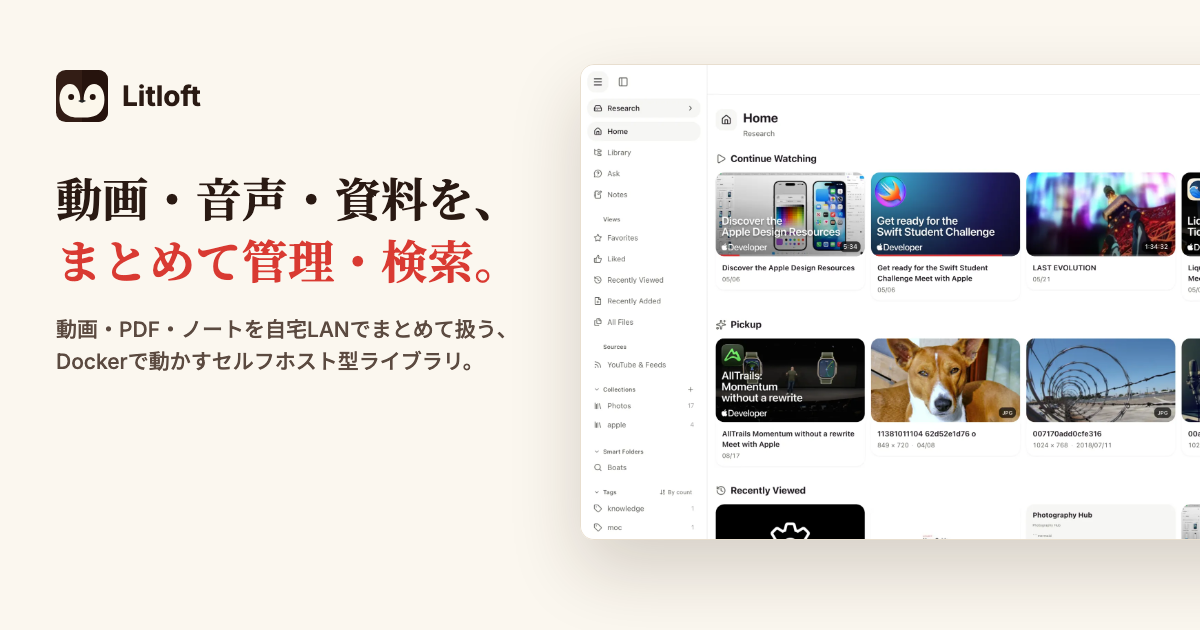
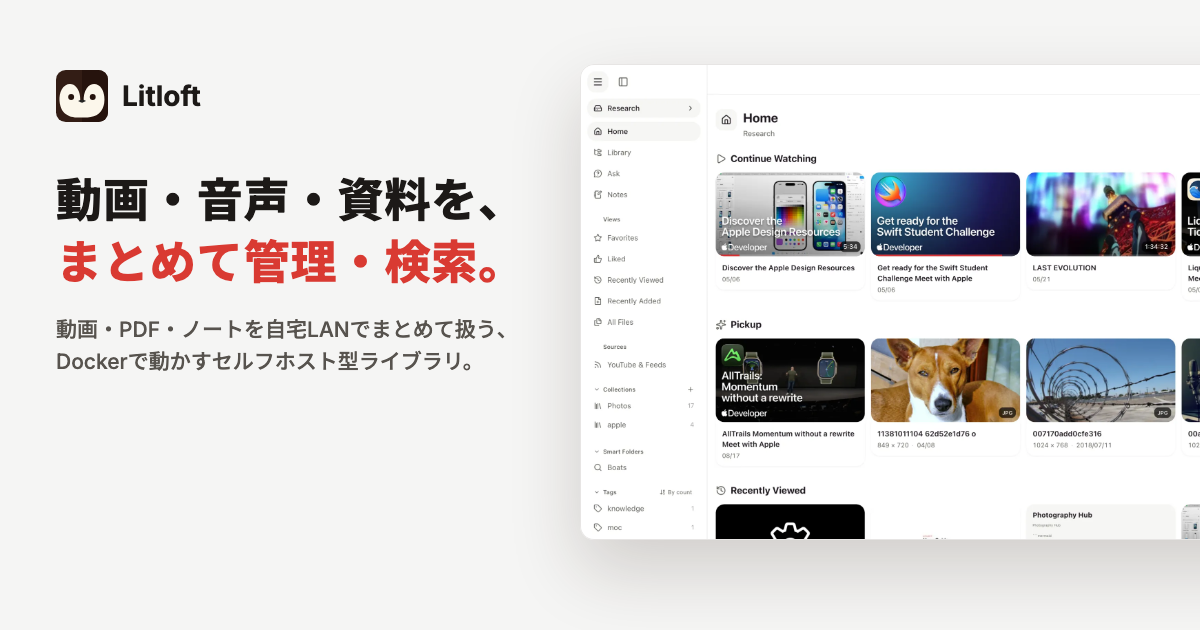
style: sans-serif headings, neutral background, plain LLM box
Set headings in Inter and Noto Sans JP instead of a serif, replace the
cream palette with white and stone greys, drop the red left rule on the
LLM box, and redraw both OG cards to match.

Changed region(s): [[0.0308, 0.2714, 0.4317, 0.4524]]

diff --git a/lp.css b/lp.css
@@ -4,17 +4,18 @@
   --red: #D93A32;
   --red-hover: #B92E27;
   --red-soft: #FCEBE8;
-  --ink: #2A1A13;
-  --ink-2: #5B4A40;
-  --ink-3: #8E7E73;
-  --cream: #FBF7EF;
-  --cream-2: #F4EDE0;
+  --ink: #1C1917;
+  --ink-2: #57534E;
+  --ink-3: #8A847F;
+  --bg: #FFFFFF;
+  --bg-2: #F5F5F4;
+  --bg-alt: #FAFAF9;
   --paper: #FFFFFF;
-  --line: #E8DECF;
-  --line-2: #D8CAB5;
+  --line: #E7E5E4;
+  --line-2: #D6D3D1;
   --night: #26140D;
   --night-2: #331D15;
-  --shadow-lg: 0 2px 4px rgba(42,26,19,.05), 0 24px 60px rgba(42,26,19,.14);
+  --shadow-lg: 0 2px 4px rgba(28,25,23,.05), 0 24px 60px rgba(28,25,23,.12);
   --r: 14px;
   --r-sm: 8px;
   --ease: cubic-bezier(0.4, 0, 0.2, 1);
@@ -25,14 +26,14 @@ html { scroll-behavior: smooth; }
 body {
   font-family: 'Inter', system-ui, -apple-system, sans-serif;
   color: var(--ink);
-  background: var(--cream);
+  background: var(--bg);
   line-height: 1.6;
   -webkit-font-smoothing: antialiased;
   overflow-x: hidden;
 }
 
 h1, h2, h3 { line-height: 1.15; letter-spacing: -0.02em; }
-h1, h2 { font-family: 'Fraunces', Georgia, serif; font-weight: 700; }
+h1, h2 { font-weight: 700; letter-spacing: -0.03em; }
 h3 { font-weight: 600; }
 a { color: inherit; }
 code { font-family: 'JetBrains Mono', ui-monospace, monospace; font-size: .9em; }
@@ -43,7 +44,7 @@ img { display: block; max-width: 100%; height: auto; }
 /* ─── NAV ─── */
 .topnav {
   position: sticky; top: 0; z-index: 100;
-  background: rgba(251,247,239,.88);
+  background: rgba(255,255,255,.88);
   backdrop-filter: blur(14px); -webkit-backdrop-filter: blur(14px);
   border-bottom: 1px solid var(--line);
 }
@@ -57,7 +58,7 @@ img { display: block; max-width: 100%; height: auto; }
   padding: 6px 12px; border-radius: var(--r-sm);
   transition: color 160ms var(--ease), background 160ms var(--ease);
 }
-.nav-link:hover { color: var(--ink); background: var(--cream-2); }
+.nav-link:hover { color: var(--ink); background: var(--bg-2); }
 
 /* ─── BUTTONS ─── */
 .btn {
@@ -69,12 +70,12 @@ img { display: block; max-width: 100%; height: auto; }
 .btn-primary { background: var(--red); color: #fff; border-color: var(--red); }
 .btn-primary:hover { background: var(--red-hover); border-color: var(--red-hover); }
 .btn-outline { background: var(--paper); color: var(--ink); border-color: var(--line-2); }
-.btn-outline:hover { background: var(--cream-2); }
+.btn-outline:hover { background: var(--bg-2); }
 .btn-lg { padding: 13px 24px; font-size: 15px; border-radius: 10px; }
-.btn-light { background: var(--cream); color: var(--ink); border-color: var(--cream); }
+.btn-light { background: var(--bg); color: var(--ink); border-color: var(--bg); }
 .btn-light:hover { background: #fff; }
-.btn-ghost { background: transparent; color: var(--cream); border-color: rgba(251,247,239,.3); }
-.btn-ghost:hover { background: rgba(251,247,239,.08); }
+.btn-ghost { background: transparent; color: var(--bg); border-color: rgba(255,255,255,.3); }
+.btn-ghost:hover { background: rgba(255,255,255,.08); }
 
 .eyebrow {
   display: inline-flex; align-items: center; gap: 8px;
@@ -91,12 +92,12 @@ img { display: block; max-width: 100%; height: auto; }
   padding: 5px 6px 5px 14px; border-radius: 100px;
   background: var(--paper); border: 1px solid var(--line);
   font-size: 13px; color: var(--ink-2); text-decoration: none;
-  box-shadow: 0 1px 2px rgba(42,26,19,.05);
+  box-shadow: 0 1px 2px rgba(28,25,23,.05);
 }
 .release-pill b { color: var(--ink); font-weight: 600; }
 .release-pill .go { background: var(--red-soft); color: var(--red); font-weight: 600; padding: 2px 10px; border-radius: 100px; font-size: 12px; white-space: nowrap; }
 .hero h1 { font-size: clamp(38px, 6vw, 68px); letter-spacing: -0.03em; line-height: 1.04; }
-.hero h1 em { font-style: italic; color: var(--red); }
+.hero h1 em { font-style: normal; color: var(--red); }
 .hero-sub { font-size: clamp(16px, 2vw, 19px); color: var(--ink-2); max-width: 620px; line-height: 1.65; }
 .hero-ctas { display: flex; gap: 12px; flex-wrap: wrap; justify-content: center; margin-top: 4px; }
 .facts { display: flex; flex-wrap: wrap; justify-content: center; gap: 8px 22px; font-size: 13px; color: var(--ink-3); }
@@ -115,7 +116,7 @@ img { display: block; max-width: 100%; height: auto; }
 }
 .frame-bar {
   display: flex; align-items: center; gap: 7px;
-  padding: 9px 14px; background: var(--cream-2); border-bottom: 1px solid var(--line);
+  padding: 9px 14px; background: var(--bg-2); border-bottom: 1px solid var(--line);
 }
 .frame-bar i { width: 10px; height: 10px; border-radius: 50%; background: var(--line-2); }
 .frame-bar .url {
@@ -131,11 +132,11 @@ section { scroll-margin-top: 70px; }
 .section-head { max-width: 680px; margin: 0 auto 56px; text-align: center; }
 .section-head h2 { font-size: clamp(28px, 3.8vw, 44px); margin: 14px 0; }
 .section-head p { font-size: 17px; color: var(--ink-2); }
-.paper { background: var(--paper); border-top: 1px solid var(--line); border-bottom: 1px solid var(--line); }
+.paper { background: var(--bg-alt); border-top: 1px solid var(--line); border-bottom: 1px solid var(--line); }
 
 /* ─── WHAT'S NEW ─── */
 .new-grid { display: grid; grid-template-columns: repeat(3, 1fr); gap: 16px; }
-.new-card { background: var(--cream); border: 1px solid var(--line); border-radius: var(--r); padding: 22px 22px 24px; }
+.new-card { background: var(--paper); border: 1px solid var(--line); border-radius: var(--r); padding: 22px 22px 24px; }
 .new-card .tag {
   display: inline-block; font-size: 11px; font-weight: 600; color: var(--ink-3);
   border: 1px solid var(--line-2); border-radius: 100px; padding: 1px 9px; margin-bottom: 14px;
@@ -167,7 +168,7 @@ kbd {
 }
 .note {
   margin-top: 20px; padding: 12px 14px; border-radius: var(--r-sm);
-  background: var(--cream-2); border: 1px solid var(--line);
+  background: var(--bg-2); border: 1px solid var(--line);
   font-size: 13.5px !important; color: var(--ink-2); line-height: 1.6 !important; margin-bottom: 0 !important;
 }
 
@@ -177,7 +178,7 @@ kbd {
   border: 1px solid var(--line-2); border-radius: 100px; padding: 5px 14px; cursor: pointer;
   transition: all 160ms var(--ease);
 }
-.shot-tab[aria-selected="true"], .os-tab[aria-selected="true"] { background: var(--ink); border-color: var(--ink); color: var(--cream); }
+.shot-tab[aria-selected="true"], .os-tab[aria-selected="true"] { background: var(--ink); border-color: var(--ink); color: var(--bg); }
 .shot-tab:focus-visible, .os-tab:focus-visible, .btn:focus-visible, .nav-link:focus-visible { outline: 2px solid var(--red); outline-offset: 2px; }
 
 /* ─── PHONE ─── */
@@ -187,7 +188,7 @@ kbd {
 .phone:nth-child(2) { margin-top: 48px; }
 
 /* ─── UNDER THE HOOD ─── */
-.hood { background: var(--night); color: var(--cream); }
+.hood { background: var(--night); color: var(--bg); }
 .hood .section-head p { color: #C9B8A8; }
 .hood .eyebrow { color: #F0907F; }
 .hood-grid { display: grid; grid-template-columns: repeat(3, 1fr); gap: 16px; }
@@ -220,7 +221,7 @@ kbd {
 .step-rail { display: flex; flex-direction: column; align-items: center; }
 .step-num {
   counter-increment: step; width: 40px; height: 40px; border-radius: 12px; flex-shrink: 0;
-  background: var(--ink); color: var(--cream); display: grid; place-items: center;
+  background: var(--ink); color: var(--bg); display: grid; place-items: center;
   font: 700 17px 'Inter', sans-serif;
 }
 .step-num::before { content: counter(step); }
@@ -229,7 +230,7 @@ kbd {
 .step-body { padding: 6px 0 40px; }
 .step-body h3 { font-size: 19px; margin-bottom: 8px; }
 .step-body > p { font-size: 15px; color: var(--ink-2); margin-bottom: 14px; }
-.ic { background: var(--cream-2); border: 1px solid var(--line); border-radius: 4px; padding: 1px 5px; color: var(--ink); font-size: 12.5px; }
+.ic { background: var(--bg-2); border: 1px solid var(--line); border-radius: 4px; padding: 1px 5px; color: var(--ink); font-size: 12.5px; }
 .code {
   background: var(--night); color: #F3E9DE; border-radius: 10px; padding: 14px 16px;
   font: 13px/1.75 'JetBrains Mono', monospace; overflow-x: auto; white-space: pre;
@@ -238,15 +239,14 @@ kbd {
 .code .p { color: #F0907F; user-select: none; }
 .os-tabs { display: flex; gap: 6px; margin-bottom: 8px; }
 .os-tab { font: 500 12px 'JetBrains Mono', monospace; padding: 3px 11px; }
-.asks { list-style: none; display: flex; flex-direction: column; gap: 8px; margin: 14px 0; padding: 14px 16px; background: var(--cream); border: 1px solid var(--line); border-radius: 10px; }
+.asks { list-style: none; display: flex; flex-direction: column; gap: 8px; margin: 14px 0; padding: 14px 16px; background: var(--bg); border: 1px solid var(--line); border-radius: 10px; }
 .asks li { font-size: 14px; color: var(--ink-2); display: grid; grid-template-columns: 22px 1fr; }
 .asks li b { color: var(--ink); font-weight: 600; }
 .asks li > span:first-child { color: var(--red); font-weight: 700; }
 .step-body > p.foot { font-size: 13.5px; color: var(--ink-3); margin: 0; }
 
 .llm-box {
-  max-width: 820px; margin: 8px auto 0; background: var(--cream); border: 1px solid var(--line);
-  border-left: 3px solid var(--red); border-radius: var(--r); padding: 22px 24px;
+  max-width: 820px; margin: 8px auto 0; background: var(--paper); border: 1px solid var(--line); border-radius: var(--r); padding: 22px 24px;
 }
 .llm-box h3 { font-size: 16px; margin-bottom: 10px; }
 .llm-box p { font-size: 14px; color: var(--ink-2); margin-bottom: 10px; }
@@ -260,8 +260,8 @@ kbd {
 .not-item b { color: var(--ink); }
 
 /* ─── CTA / FOOTER ─── */
-.cta { background: var(--night); color: var(--cream); text-align: center; padding: 96px 0; }
-.cta img { width: 64px; height: 64px; margin: 0 auto 24px; border-radius: 12px; box-shadow: 0 0 0 1px rgba(251,247,239,.22); }
+.cta { background: var(--night); color: var(--bg); text-align: center; padding: 96px 0; }
+.cta img { width: 64px; height: 64px; margin: 0 auto 24px; border-radius: 12px; box-shadow: 0 0 0 1px rgba(255,255,255,.22); }
 .cta h2 { font-size: clamp(30px, 4vw, 48px); margin-bottom: 14px; }
 .cta p { font-size: 17px; color: #C9B8A8; max-width: 520px; margin: 0 auto 34px; }
 .cta-btns { display: flex; gap: 12px; justify-content: center; flex-wrap: wrap; }

diff --git a/ja/index.html b/ja/index.html
@@ -34,7 +34,7 @@
   <meta name="twitter:title" content="Litloft | 自宅LANで使えるセルフホスト型メディアライブラリ">
   <meta name="twitter:description" content="動画やPDFの閲覧から、ノートの作成、ファイルの内容の検索まで。Dockerで自宅のPCやサーバーに導入できます。">
   <meta name="twitter:image" content="https://mamepenguin.github.io/Litloft/og-ja.png">
-  <meta name="theme-color" content="#FBF7EF">
+  <meta name="theme-color" content="#FFFFFF">
   <link rel="alternate" hreflang="en" href="https://mamepenguin.github.io/Litloft/">
   <link rel="alternate" hreflang="ja" href="https://mamepenguin.github.io/Litloft/ja/">
   <link rel="alternate" hreflang="x-default" href="https://mamepenguin.github.io/Litloft/">
@@ -43,16 +43,15 @@
 
   <link rel="preconnect" href="https://fonts.googleapis.com">
   <link rel="preconnect" href="https://fonts.gstatic.com" crossorigin>
-  <link href="https://fonts.googleapis.com/css2?family=Inter:wght@400;500;600;700&family=Fraunces:opsz,wght@9..144,600;9..144,700&family=JetBrains+Mono:wght@400;500&family=Noto+Sans+JP:wght@400;500;700&family=Noto+Serif+JP:wght@700&display=swap" rel="stylesheet">
+  <link href="https://fonts.googleapis.com/css2?family=Inter:wght@400;500;600;700&family=JetBrains+Mono:wght@400;500&family=Noto+Sans+JP:wght@400;500;700;800&display=swap" rel="stylesheet">
 
   <link rel="stylesheet" href="../lp.css">
   <style>
     body { font-family: 'Inter', 'Noto Sans JP', system-ui, sans-serif; line-height: 1.75; }
-    h1, h2 { font-family: 'Fraunces', 'Noto Serif JP', serif; letter-spacing: 0.01em; line-height: 1.3; }
+    h1, h2 { font-family: 'Inter', 'Noto Sans JP', sans-serif; font-weight: 800; letter-spacing: 0.02em; line-height: 1.35; }
     h1, h2, h3, .hero-sub, .section-head p { word-break: auto-phrase; text-wrap: balance; }
     h3 { letter-spacing: 0; }
-    .hero h1 { letter-spacing: 0.01em; line-height: 1.25; font-size: clamp(32px, 5vw, 56px); }
-    .hero h1 em { font-style: normal; }
+    .hero h1 { letter-spacing: 0.02em; line-height: 1.3; font-size: clamp(32px, 5vw, 56px); }
     .eyebrow { letter-spacing: .04em; }
     .copy > p, .points li, .new-card p { line-height: 1.8; }
     .not-item b, .asks li b { font-weight: 700; }

diff --git a/index.html b/index.html
@@ -33,7 +33,7 @@
   <meta name="twitter:title" content="Litloft | A self-hosted media library for your home network">
   <meta name="twitter:description" content="Play videos, read PDFs, write Markdown notes and search file contents. Install Litloft on your own computer or server with Docker.">
   <meta name="twitter:image" content="https://mamepenguin.github.io/Litloft/og.png">
-  <meta name="theme-color" content="#FBF7EF">
+  <meta name="theme-color" content="#FFFFFF">
   <link rel="alternate" hreflang="en" href="https://mamepenguin.github.io/Litloft/">
   <link rel="alternate" hreflang="ja" href="https://mamepenguin.github.io/Litloft/ja/">
   <link rel="alternate" hreflang="x-default" href="https://mamepenguin.github.io/Litloft/">
@@ -42,7 +42,7 @@
 
   <link rel="preconnect" href="https://fonts.googleapis.com">
   <link rel="preconnect" href="https://fonts.gstatic.com" crossorigin>
-  <link href="https://fonts.googleapis.com/css2?family=Inter:wght@400;500;600;700&family=Fraunces:opsz,wght@9..144,600;9..144,700&family=JetBrains+Mono:wght@400;500&display=swap" rel="stylesheet">
+  <link href="https://fonts.googleapis.com/css2?family=Inter:wght@400;500;600;700;800&family=JetBrains+Mono:wght@400;500&display=swap" rel="stylesheet">
 
   <link rel="stylesheet" href="lp.css">
 </head>
